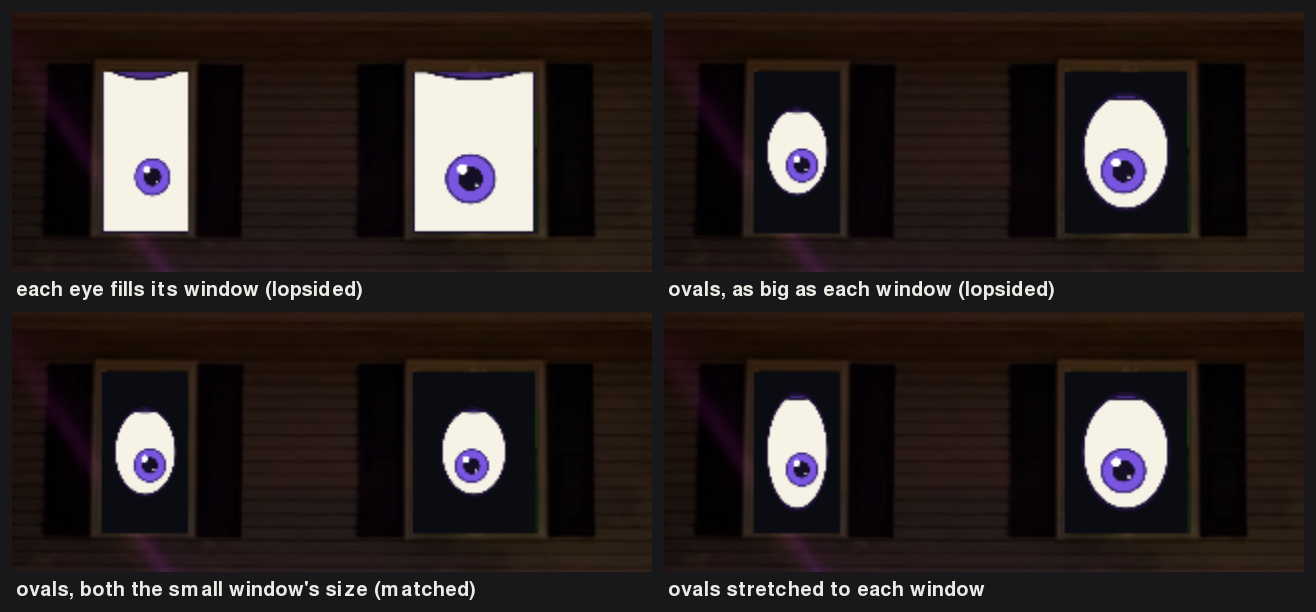
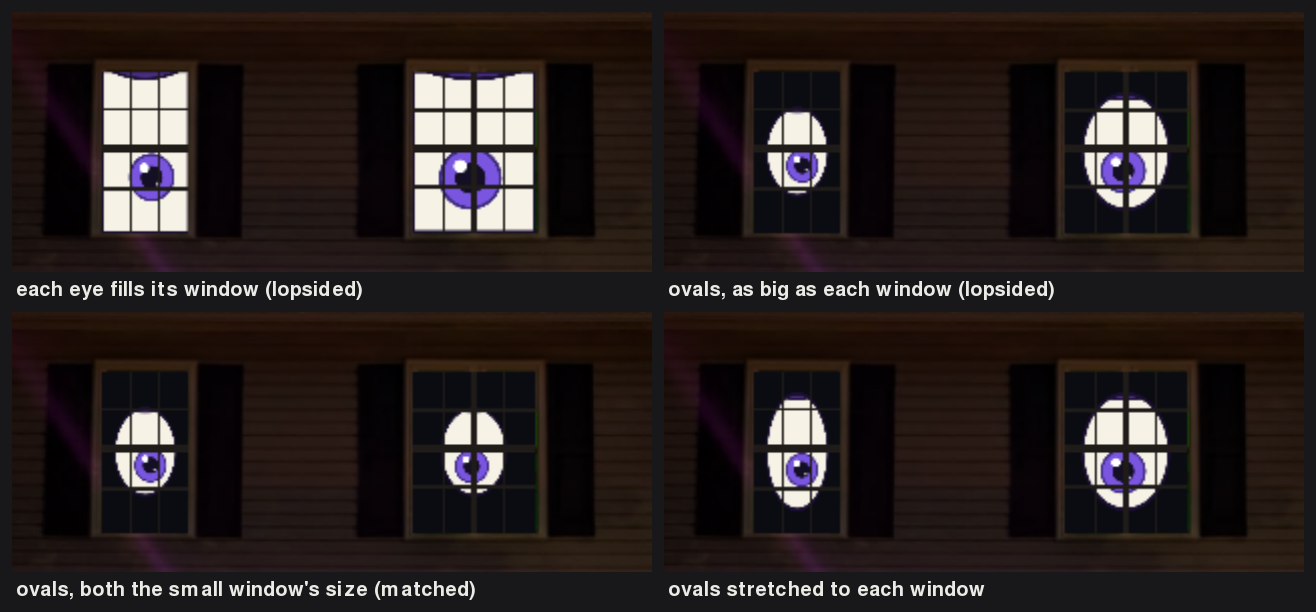
eyes, sim: bigger iris in full-window eyes; window panes and mouth shapes in the house preview
Owner's review of Step 5 (gloss #26). In the square layout the iris, pupil and lines
are sized to the eye's white, not the whole sketch (about 1.25x). The preview draws the
windows' sashes, grilles and mullion over the eye (panes in sim/house_preview.yaml,
key p). Figures compare the iris before/after, panes, and flat vs curved lips. Saving
the layout now touches only windows and lips (it broke the new panes section).

diff --git a/sim/house_preview.py b/sim/house_preview.py
@@ -9,7 +9,8 @@ laid onto its window in the photo with a perspective warp, all on the GPU.
 
 Mouse: drag a corner (or a lip point) to move it.
 Keys: m eye mode (fills the window / oval / matched ovals / stretched) · c iris color ·
-d dusk (dims the photo; the eyes are lit) · l lips on/off · h hide the handles ·
+d dusk (dims the photo; the eyes are lit) · p window panes on/off · l lips on/off ·
+h hide the handles ·
 s save the layout to sim/house_preview.yaml · Space blink · 1-6 expressions ·
 i wander · Esc quit.
 """
@@ -73,11 +74,21 @@ in vec2 v_photo;
 out vec4 color;
 uniform sampler2D u_tex;
 uniform mat3 u_to_eye;          // photo px -> eye image 0..1 (top-left origin)
+uniform vec2 u_vbars[4];        // vertical pane bars: x, width (fractions of the glass)
+uniform vec2 u_hbars[4];        // horizontal pane bars: y, height
+uniform int u_nv;
+uniform int u_nh;
+uniform vec3 u_pane_color;
 void main() {
     vec3 p = u_to_eye * vec3(v_photo, 1.0);
     vec2 uv = p.xy / p.z;
     if (any(lessThan(uv, vec2(0.0))) || any(greaterThan(uv, vec2(1.0)))) discard;
-    color = vec4(texture(u_tex, vec2(uv.x, 1.0 - uv.y)).rgb, 1.0);   // GL images start at the bottom
+    vec3 rgb = texture(u_tex, vec2(uv.x, 1.0 - uv.y)).rgb;           // GL images start at the bottom
+    for (int i = 0; i < 4; i++) {
+        if (i < u_nv && abs(uv.x - u_vbars[i].x) < u_vbars[i].y * 0.5) rgb = u_pane_color;
+        if (i < u_nh && abs(uv.y - u_hbars[i].x) < u_hbars[i].y * 0.5) rgb = u_pane_color;
+    }
+    color = vec4(rgb, 1.0);
 }
 """
 
@@ -167,6 +178,7 @@ class Preview:
         self.iris = 0
         self.dusk = 0
         self.lips_on = True
+        self.panes_on = True
         self.handles_on = True
         self.eyes: dict[str, EyeRenderer] = {}
         self.eye_fbo: dict[str, moderngl.Framebuffer] = {}
@@ -245,6 +257,12 @@ class Preview:
             self.eye_fbo[side].color_attachments[0].use(0)
             self.p_eye["u_tex"].value = 0
             self.p_eye["u_to_eye"].value = tuple(m[r][c] for c in range(3) for r in range(3))  # column-major
+            bars = self.layout.panes.get(side, {}) if self.panes_on else {}
+            v, h = bars.get("v", [])[:4], bars.get("h", [])[:4]
+            self.p_eye["u_vbars"].value = v + [(0.0, 0.0)] * (4 - len(v))
+            self.p_eye["u_hbars"].value = h + [(0.0, 0.0)] * (4 - len(h))
+            self.p_eye["u_nv"].value, self.p_eye["u_nh"].value = len(v), len(h)
+            self.p_eye["u_pane_color"].value = _hex(self.layout.pane_color)
             self.vao_eye[side].render(moderngl.TRIANGLE_STRIP)
         self._overlay()
 
@@ -301,7 +319,7 @@ def parse_args(argv=None):
 def render_png(path: Path, layout: HouseLayout, windows, theme, height: int, mode: str = "window",
                expression: str | None = None, software: bool = False, handles: bool = False,
                iris: int = 0, dusk: int = 0, settle_s: float = 1.0,
-               look: tuple[float, float, float] = (0.8, 4.0, 1.0)) -> None:
+               look: tuple[float, float, float] = (0.8, 4.0, 1.0), panes: bool = True) -> None:
     """One frame drawn offscreen and saved as a PNG (for docs and tests). The eyes look at
     `look` (house m; default a kid on the walk, right of center)."""
     import pygame
@@ -311,7 +329,7 @@ def render_png(path: Path, layout: HouseLayout, windows, theme, height: int, mod
     preview = Preview(ctx, fbo, view, layout, windows, theme)
     preview.set_mode(mode)
     preview.set_iris(iris)
-    preview.dusk, preview.handles_on = dusk, handles
+    preview.dusk, preview.handles_on, preview.panes_on = dusk, handles, panes
     states = {s: EyeState(windows[s].position_m, (1e6, 1e6), theme.blink_ms) for s in SIDES}
     for st in states.values():
         st.look_at(look)
@@ -395,6 +413,8 @@ def run_window(args, layout: HouseLayout, windows, theme) -> int:
                     preview.dusk = (preview.dusk + 1) % len(DUSK)
                 elif k == pygame.K_l:
                     preview.lips_on = not preview.lips_on
+                elif k == pygame.K_p:
+                    preview.panes_on = not preview.panes_on
                 elif k == pygame.K_h:
                     preview.handles_on = not preview.handles_on
                 elif k == pygame.K_s:

diff --git a/tools/results/stage_0_step_5.py b/tools/results/stage_0_step_5.py
@@ -11,13 +11,17 @@ sidewalk (6 m out) for the comparisons, and on the walk (4 m) for the expression
 from __future__ import annotations
 
 import argparse
+import copy
 import json
+import math
 from pathlib import Path
+from unittest import mock
 
 import pygame
 
 from eyes.config import load_theme, load_window
 from sim.house_layout import SIDES, load_layout
+import eyes.render
 from sim.house_preview import DUSK, MODE_TEXT, MODES, render_png
 
 REPO_ROOT = Path(__file__).resolve().parents[2]
@@ -46,6 +50,23 @@ def grid(tiles: list[tuple[str, pygame.Surface]], cols: int, path: Path) -> None
         out.blit(img, (x, y))
         out.blit(font.render(label, True, (235, 235, 230)), (x + 4, y + h + 8))
     pygame.image.save(out, str(path))
+
+
+def old_layout(size, eye_size, shape):
+    """The full-window rule before 2026-11-26 (iris sized to the whole sketch), for the
+    before/after figure only."""
+    if shape != "square":
+        return ORIGINAL_LAYOUT(size, eye_size, shape)
+    scale = min(size[0] / 300, size[1] / 400)
+    return scale, (size[0] / (236 * scale), size[1] / (320 * scale)), True
+
+
+ORIGINAL_LAYOUT = eyes.render.layout
+
+
+def curve(x0: float, x1: float, y: float, dip: float, n: int = 7) -> list[tuple[float, float]]:
+    """n points from x0 to x1 at height y, sagging by `dip` px in the middle (a smile)."""
+    return [(x0 + (x1 - x0) * i / (n - 1), y + dip * math.sin(math.pi * i / (n - 1))) for i in range(n)]
 
 
 def main(argv=None) -> int:
@@ -81,6 +102,39 @@ def main(argv=None) -> int:
             render(tmp, expression=name, dusk=1, look=point)
             tiles.append((f"{name}, kid on the {where}", crop(tmp)))
     grid(tiles, 2, OUT / "figures" / "05-expressions.png")
+
+    # Owner feedback, 2026-11-26 (gloss #26): bigger iris, panes, a less worried mouth.
+    tiles = []
+    with mock.patch("eyes.render.layout", old_layout):
+        render(tmp, expression="neutral", dusk=1, look=SIDEWALK, panes=False)
+    tiles.append(("before: iris sized to the whole sketch", crop(tmp)))
+    render(tmp, expression="neutral", dusk=1, look=SIDEWALK, panes=False)
+    tiles.append(("now: iris sized to the white (about 1.25x)", crop(tmp)))
+    grid(tiles, 2, OUT / "figures" / "06-bigger-iris.png")
+
+    tiles = []
+    for on in (False, True):
+        render(tmp, expression="neutral", dusk=1, look=SIDEWALK, panes=on)
+        tiles.append(("window panes " + ("on" if on else "off"), crop(tmp)))
+    for mode in ("oval", "matched"):
+        render(tmp, mode=mode, expression="neutral", dusk=1, look=SIDEWALK)
+        tiles.append((f"panes on, {MODE_TEXT[mode]}", crop(tmp)))
+    grid(tiles, 2, OUT / "figures" / "07-panes.png")
+
+    (ux0, uy), (ux1, _) = layout.lips["upper"][0], layout.lips["upper"][-1]
+    (lx0, ly), (lx1, _) = layout.lips["lower"][0], layout.lips["lower"][-1]
+    mouths = [("flat (as now)", layout.lips),
+              ("lower lip curved into a smile", {"upper": layout.lips["upper"], "lower": curve(lx0, lx1, ly, 90)}),
+              ("both lips curved", {"upper": curve(ux0, ux1, uy, 45), "lower": curve(lx0, lx1, ly, 110)})]
+    small = []
+    for label, lips in mouths:
+        alt = copy.deepcopy(layout)
+        alt.lips = lips
+        render_png(tmp, alt, windows, theme, HEIGHT, expression="happy", dusk=1, look=SIDEWALK,
+                   software=args.software)
+        img = pygame.image.load(str(tmp)).subsurface((180, 250, 460, 380)).copy()
+        small.append((label, img))
+    grid(small, 3, OUT / "figures" / "08-mouth-shapes.png")
     tmp.unlink()
 
     left, right = windows["left"], windows["right"]

diff --git a/sim/house_layout.py b/sim/house_layout.py
@@ -34,6 +34,8 @@ class HouseLayout:
     lips: dict[str, list[Point]] = field(default_factory=dict)
     lip_color: str = "#c050ff"
     iris_colors: list[str] = field(default_factory=list)
+    panes: dict[str, dict[str, list[tuple[float, float]]]] = field(default_factory=dict)  # side -> v/h bars
+    pane_color: str = "#1e1b18"
 
 
 def _points(raw, n: int | None = None) -> list[Point]:
@@ -52,6 +54,9 @@ def load_layout(path: Path = LAYOUT_FILE) -> HouseLayout:
             lips={name: _points(pts) for name, pts in (raw.get("lips") or {}).items()},
             lip_color=str(raw.get("lip_color", "#c050ff")),
             iris_colors=[str(c) for c in raw.get("iris_colors", [])],
+            panes={side: {k: [(float(a), float(b)) for a, b in bars.get(k, [])] for k in ("v", "h")}
+                   for side, bars in (raw.get("panes") or {}).items()},
+            pane_color=str(raw.get("pane_color", "#1e1b18")),
         )
     except FileNotFoundError:
         raise LayoutError(f"no house preview layout at {path}") from None
@@ -63,14 +68,16 @@ def save_layout(layout: HouseLayout, path: Path = LAYOUT_FILE) -> None:
     """Write the dragged positions back, keeping the file's comments (only the numbers change)."""
     lines = path.read_text().splitlines()
     fmt = lambda pts: "[" + ", ".join(f"[{round(x)}, {round(y)}]" for x, y in pts) + "]"   # noqa: E731
-    values = {**{s: layout.windows[s] for s in SIDES}, **layout.lips}
-    out = []
+    values = {"windows": {s: layout.windows[s] for s in SIDES}, "lips": layout.lips}
+    out, section = [], None
     for line in lines:
+        if line and not line.startswith((" ", "#")):
+            section = line.split(":", 1)[0]          # the top-level key we're under
         key = line.strip().split(":", 1)[0]
-        if line.startswith("  ") and key in values and ":" in line:
+        if line.startswith("  ") and section in values and key in values[section] and ":" in line:
             indent = line[:len(line) - len(line.lstrip())]
             pad = " " * max(1, 7 - len(key))
-            line = f"{indent}{key}:{pad}{fmt(values[key])}"
+            line = f"{indent}{key}:{pad}{fmt(values[section][key])}"
         out.append(line)
     path.write_text("\n".join(out) + "\n")
 

diff --git a/eyes/render.py b/eyes/render.py
@@ -38,7 +38,7 @@ def layout(size: tuple[int, int], eye_size: float, shape: str) -> tuple[float, t
     """How the eye fills its output: (pixels per sketch unit, stretch, fill a rectangle).
 
     square   the white fills the whole window; the window frame is the eye's edge
-             (eye_size is not used)
+             (eye_size is not used); the iris is sized to the white, not the whole sketch
     oval     the sketch's oval (3 wide x 4 tall), as big as fits (eye_size of the window)
     stretch  an oval stretched to the window's shape (eye_size of each side)
     The size here is the window as seen from the street (before any rotation).
@@ -50,7 +50,10 @@ def layout(size: tuple[int, int], eye_size: float, shape: str) -> tuple[float, t
     if shape == "stretch":
         return scale * eye_size, (sx / scale, sy / scale), False
     if shape == "square":
-        # The white is 236 x 320 sketch units; make it cover the whole window.
+        # The white is 236 x 320 sketch units. Size the round things (iris, pupil, lines) as
+        # if that white were scaled up to just fit the window (owner, 2026-11-26: a bigger
+        # iris), then stretch the white to cover the whole window.
+        scale = min(size[0] / 236, size[1] / 320)
         return scale, (size[0] / (236 * scale), size[1] / (320 * scale)), True
     raise ValueError(f"eye shape must be one of {SHAPES}, not {shape!r}")
 

diff --git a/tests/test_house_preview.py b/tests/test_house_preview.py
@@ -44,6 +44,7 @@ def test_layout_saves_dragged_points_and_keeps_the_comments(tmp_path):
     assert again.windows["left"][0] == (600, 650)
     assert again.lips["upper"][1] == (800, 930)
     assert again.windows["right"] == layout.windows["right"]
+    assert again.panes == layout.panes and again.panes["right"]["v"]       # other sections untouched
     assert path.read_text().count("#") == LAYOUT_FILE.read_text().count("#")
 
 

diff --git a/docs/results/stage-0-step-5/README.md b/docs/results/stage-0-step-5/README.md
@@ -35,7 +35,8 @@ at the porch roof edge and the railing.
 ![The four eye modes](figures/03-eye-modes.png)
 
 - **Fills each window:** the site config's default (`square`). The window frame is the
-  eye's edge, so the eyes are as different as the windows, and the iris looks small.
+  eye's edge, so the eyes are as different as the windows. (The iris was made bigger
+  on 2026-11-26; see Updates.)
 - **Ovals as big as each window:** still lopsided, but rounder.
 - **Matched:** both ovals the small window's size in meters, so they read as a pair.
   The big window shows more dark glass around its eye.
@@ -59,7 +60,7 @@ The eyes are about 5 m up, so a kid near the porch makes them look well down. In
 
 1. Lopsided or matched eyes, and their size.
 2. Iris color, and whether the purple lids go with it.
-3. In "fills each window": is the iris big enough?
+3. In "fills each window": is the iris big enough? (Made about 1.25× bigger on 2026-11-26.)
 4. Is `happy` hiding the iris for a nearby kid all right, or should it rise less?
 
 ## Tests
@@ -119,3 +120,27 @@ Technical calls Claude made during the step. Overturn any of them with a gloss c
 
 - **2026-11-26:** The owner's decisions are filed as
   [UT-004](../../user-tests.md#ut-004). Added where to run the commands.
+- **2026-11-26, the owner's review (gloss #26):** "House looks worried but might be the
+  flat lips and not the eyes. I think the eye pupil/iris can be larger with a full
+  window. Could we do a version with the panes?" All three are done. The figures above
+  are redrawn with the bigger iris and the panes.
+
+  **A bigger iris in "fills each window".** The iris, pupil and lines are now sized to
+  the eye's white, not the whole sketch, so they are about 1.25× bigger. This changes
+  the real eye renderer too (`eyes/render.py`), not just the preview.
+
+  ![The iris before and after](figures/06-bigger-iris.png)
+
+  **The window panes.** The sashes, grilles and the right window's mullion are drawn over
+  the eye, dark, as they'd look backlit by a rear-projection screen. They were read from
+  the photo, and are set in `sim/house_preview.yaml` (`panes`). `p` turns them off.
+
+  ![The eyes behind the panes](figures/07-panes.png)
+
+  **The mouth.** Three shapes to compare (with `happy` eyes). The real lips are LED strips,
+  so a curve means bending the strip along the railing (and the roof edge) rather than
+  running it straight. That's a choice for the lip design (UT-004, and the lip-lights
+  trade study in gloss #22). The lip points in the preview can be dragged into any
+  shape.
+
+  ![Flat, lower lip curved, both curved](figures/08-mouth-shapes.png)

diff --git a/docs/user-tests.md b/docs/user-tests.md
@@ -97,7 +97,10 @@ command in its own terminal. UT-003's setup covers UT-002.
   - lopsided or matched eyes (`m` cycles the four modes);
   - eye size within each window;
   - iris color (`c`), and whether the lids' purple suits it;
-  - whether the iris is big enough in the "fills its window" mode;
+  - whether the iris is big enough in the "fills its window" mode (made about 1.25×
+    bigger on 2026-11-26);
+  - the window panes over the eye (`p`), and the mouth's shape: flat or curved lips
+    (drag the lip points);
   - whether `happy` hiding much of the iris for a kid close to the porch is all right.
 - **Pass when:** the owner has decided the eye layout, size and color with it.
 - **Result:** _not yet run._

diff --git a/sim/README.md b/sim/README.md
@@ -102,7 +102,7 @@ as one. Each eye is drawn by the real eye renderer and warped onto its window.
 | `m` | Eye mode: fills each window (lopsided) · ovals as big as each window · matched ovals (both the small window's size, in meters) · ovals stretched to each window |
 | `c` | Next iris color (`iris_colors` in the layout file) |
 | `d` | Dusk: dim the photo (the eyes are lit) |
-| `l`, `h` | Lips on/off, handles on/off |
+| `p`, `l`, `h` | Window panes on/off (set in the layout file), lips on/off, handles on/off |
 | `s` | Save the corners and lip points to `sim/house_preview.yaml` |
 | `Space`, `1`-`6`, `i` | Blink, expressions, wander (when no brain is running) |
 
